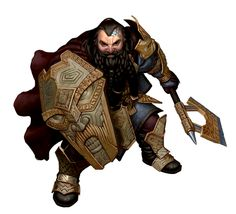
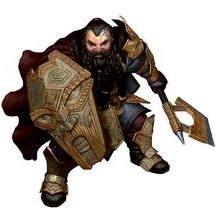
adjust images for new navbar

Changed region(s): [[0.0, 0.0561, 0.6111, 0.9813], [0.6111, 0.1402, 1.0, 0.8131]]

diff --git a/index.html b/index.html
@@ -54,7 +54,7 @@
                     <h3>Player Characters</h3>
                     <div class="container">
                         <div class="name">
-                            <h4><a href="./resources/sheets/Beldryn Bronzeheart.pdf">Beldryn Bronzeheart</a></h4>
+                            <h4><a target="_blank" href="./resources/sheets/Beldryn Bronzeheart.pdf">Beldryn Bronzeheart</a></h4>
                             <image class="character" src="resources/images/Beldryn.jpg"></image>
                         </div>
                         <p>Beldryn changed his last name to Bronzeheart after joining the Bronze Bank 
@@ -68,7 +68,7 @@
                     </div>
                     <div class="container">
                         <div class="name">
-                            <h4><a href="./resources/sheets/Lemullius von Litwick Character Sheet.pdf">Lemullius von Litwick</a></h4>
+                            <h4><a target="_blank" href="./resources/sheets/Lemullius von Litwick Character Sheet.pdf">Lemullius von Litwick</a></h4>
                             <image class="character" src="resources/images/Lem.jpeg"></image>
                         </div>
                         <p>Lorem ipsum dolor sit amet consectetur adipisicing elit. Enim 
@@ -78,7 +78,7 @@
                     </div>
                     <div class="container">
                         <div class="name">
-                            <h4><a href="https://www.dndbeyond.com/characters/28540226/mhScaz">Rawson Titanwound</a></h4>
+                            <h4><a target="_blank" href="https://www.dndbeyond.com/characters/28540226/mhScaz">Rawson Titanwound</a></h4>
                             <image class="character" src="resources/images/Rawson.jpg"></image>
                         </div>
                         <p>Lorem ipsum dolor sit amet, consectetur adipisicing elit. 
@@ -88,7 +88,7 @@
                     </div>
                     <div class="container">
                         <div class="name">
-                            <h4><a href="https://www.dndbeyond.com/characters/27859882/kKKN7J">Isho-Genni Hassada</a></h4>
+                            <h4><a target="_blank" href="https://www.dndbeyond.com/characters/27859882/kKKN7J">Isho-Genni Hassada</a></h4>
                             <image class="character" src="resources/images/Isho.jpg"></image>
                         </div>
                         <p>Lorem ipsum dolor sit amet consectetur adipisicing elit. Officia 
@@ -98,7 +98,7 @@
                     </div>
                     <div class="container">
                         <div class="name">
-                            <h4><a href="resources/sheets/Ulrach Thyrmyr.pdf">Ulrach Thyrmyr</a></h4>
+                            <h4><a target="_blank" href="resources/sheets/Ulrach Thyrmyr.pdf">Ulrach Thyrmyr</a></h4>
                             <image class="character" src="resources/images/Minotaur.jpeg"></image>
                         </div>
                         <p>Lorem ipsum dolor sit amet consectetur adipisicing elit. 

diff --git a/resources/css/style.css b/resources/css/style.css
@@ -18,7 +18,6 @@ body {
     background-color: var(--bg-primary);
     margin: 0;
     padding: 0;
-    overflow: scroll; 
 }
 
 body::-webkit-scrollbar {
@@ -166,6 +165,7 @@ h1 {
     height: auto; 
     width: 60%;
     float: right; 
+    margin-bottom: 1rem;
 }
 
 aside {
@@ -175,35 +175,32 @@ aside {
 /* Character */ 
 
 img.character {
-    width: 75%;
-    max-width: 150px;
-    height: 75%; 
-    max-height: 175px;  
+    width: 8rem;
+    height: 10rem;  
     overflow: hidden; 
-    margin: 0;
-    padding: 0;
+    margin-top: 1rem;
+    border-radius: 5px;
 }
 
-.NPC {
-    padding-top: 25px;
+.name a {
+    text-decoration: none; 
+    color: var(--text-secondary);
 }
 
 .container {
     display: flex;
-    justify-content: space-around; 
-    align-items: flex-start; 
 }
 
 .container p {
-    width: 60%;
-    height: auto; 
+    width: 75%;
     padding-top: 14px;
+    margin-left: 1rem;
+    color: var(--text-secondary)
 }
 
 .container h4 {
-    width: 30%;
     height: auto; 
-    font-weight: bolder; 
+    font-weight: bold; 
     font-size: 24px;
     margin-bottom: 0;
     padding-bottom: 0;
@@ -228,4 +225,11 @@ aside {
 article {
     border-top: 2px #fff solid; 
     margin-top: 12px;
+    color: var(--text-secondary);
+}
+
+article img {
+    width: 70%;
+    height: auto; 
+    border-radius: 5px;
 }
